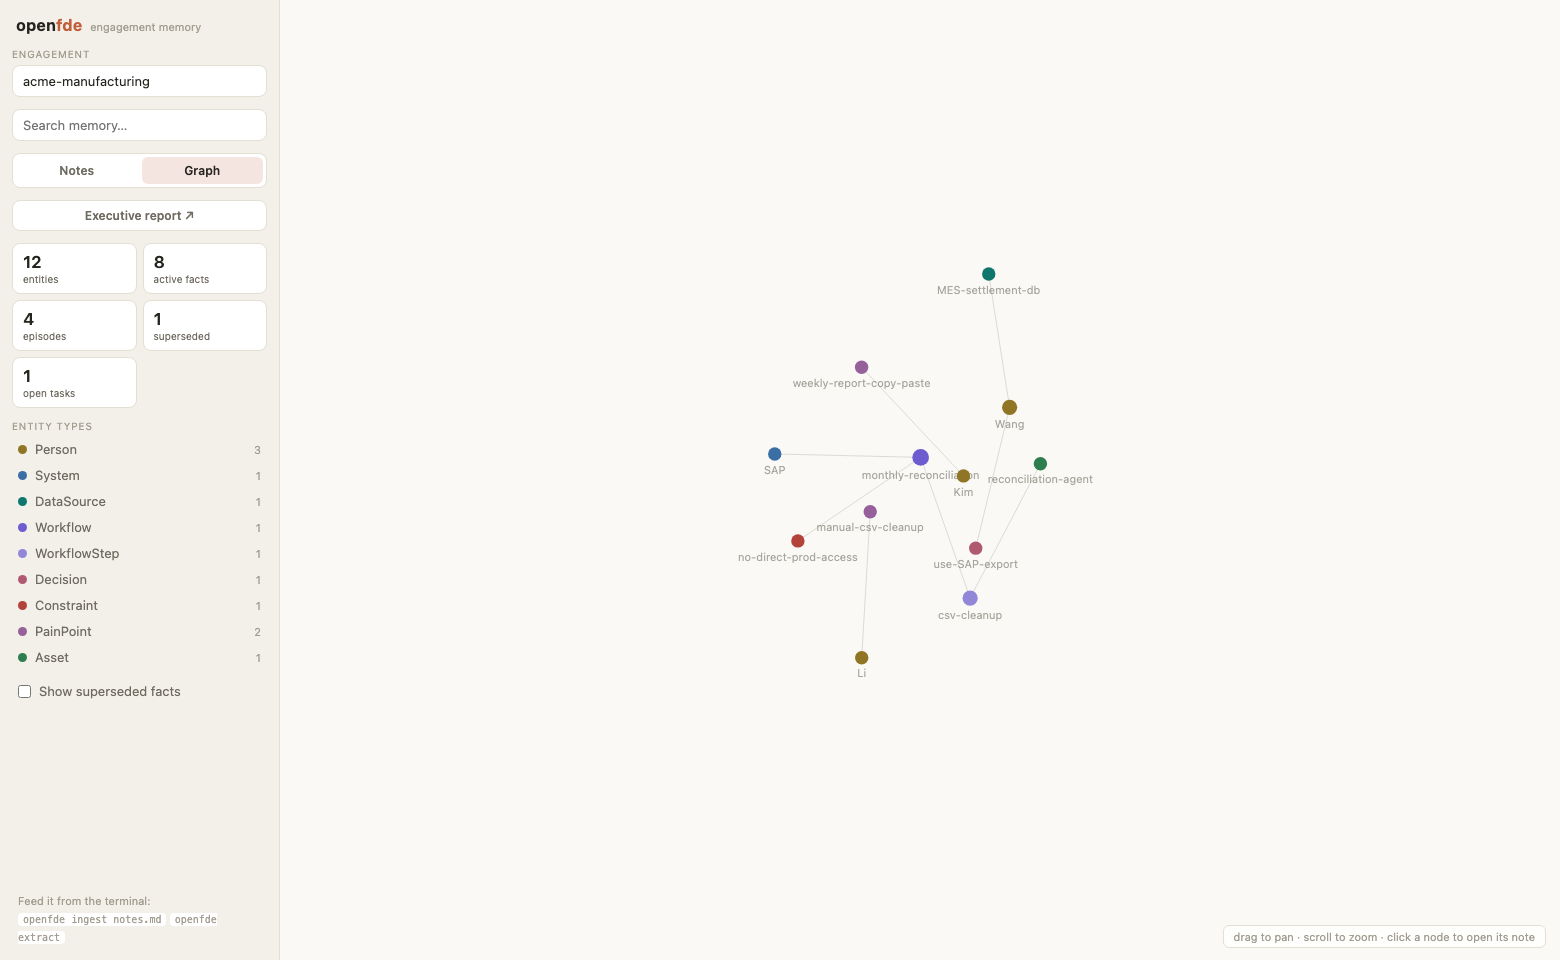
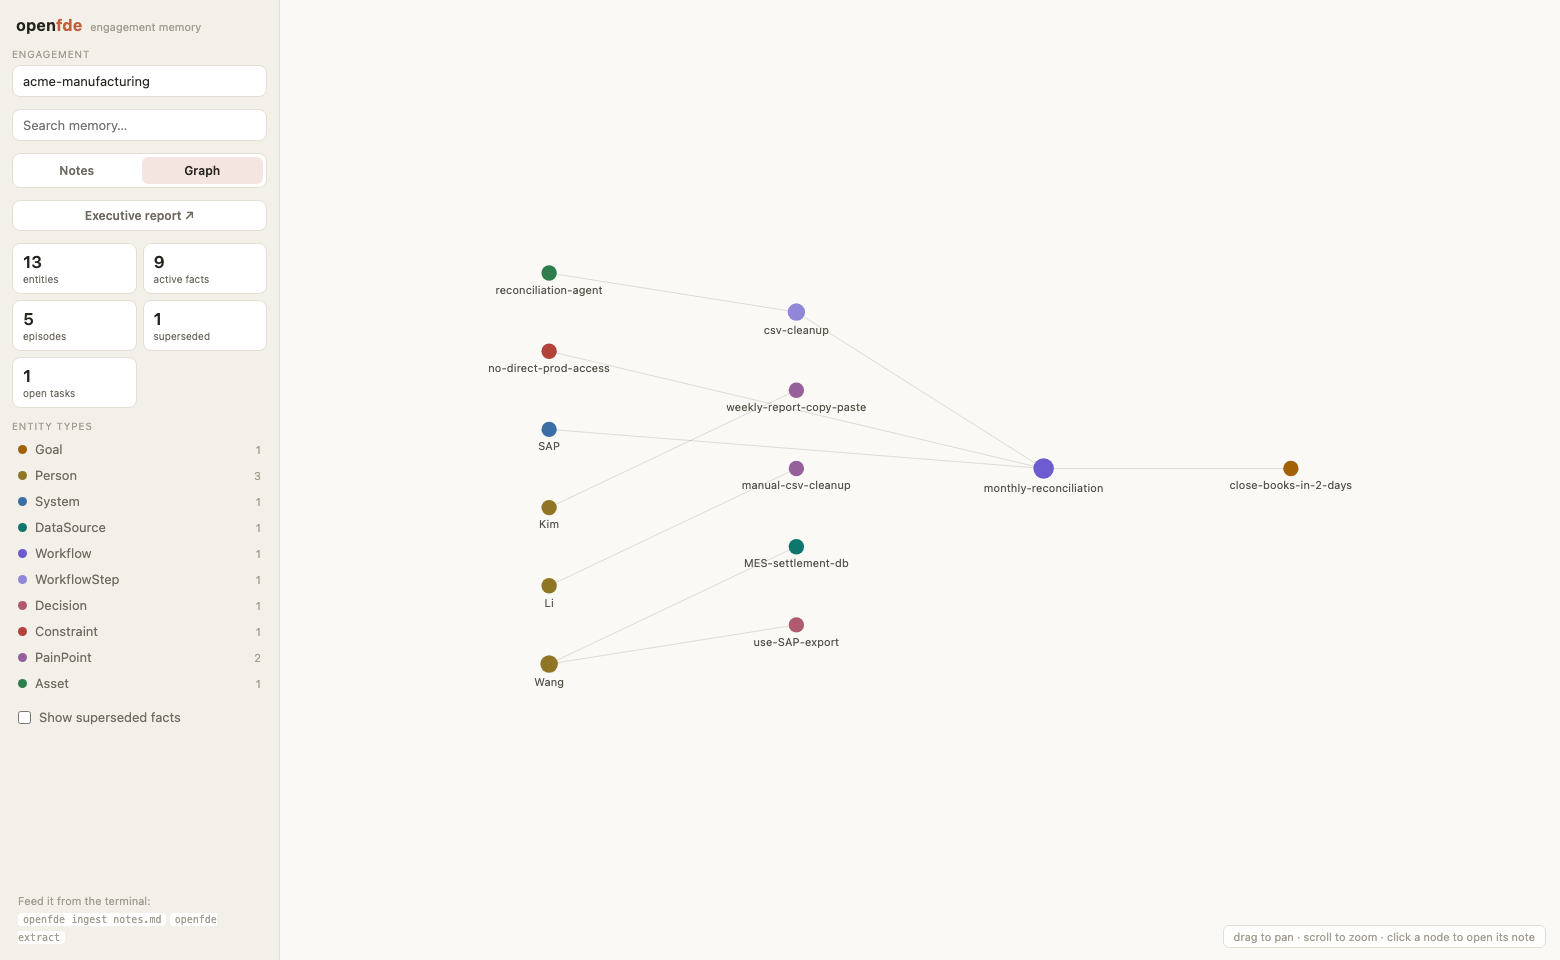
Replace force-directed graph with deterministic layered layout
Nodes rank along flow semantics (people/constraints/systems ->
pains/steps -> workflows -> goals; DEPENDS_ON and DECIDED_BY reversed
so infrastructure sits upstream), columns ordered by neighbor
barycenter to minimize crossings. No physics, no randomness: the same
ledger always draws the same picture, edges run left to right, labels
stay readable, and the view auto-fits per engagement without resetting
the user's pan/zoom on live refreshes.

diff --git a/packages/webui/src/index.html b/packages/webui/src/index.html
@@ -414,7 +414,7 @@ const state = {
   pages: [],
   page: null,
   tx: 0, ty: 0, scale: 1,
-  alpha: 0,
+  needsFit: false,
 };
 
 /* ---------------- api ---------------- */
@@ -486,7 +486,7 @@ function setView(view) {
   document.getElementById("stage").style.display = view === "graph" ? "block" : "none";
   document.getElementById("tree").style.display = view === "notes" ? "block" : "none";
   document.getElementById("graph-controls").style.display = view === "graph" ? "flex" : "none";
-  if (view === "graph") { resizeCanvas(); reheat(0.4); }
+  if (view === "graph") { resizeCanvas(); maybeFit(); }
 }
 document.getElementById("view-notes").onclick = () => setView("notes");
 document.getElementById("view-graph").onclick = () => setView("graph");
@@ -1253,7 +1253,9 @@ function renderLegend() {
     row.onclick = () => {
       state.hiddenTypes.has(type) ? state.hiddenTypes.delete(type) : state.hiddenTypes.add(type);
       renderLegend();
-      reheat(0.3);
+      layoutGraph();
+      state.needsFit = true;
+      maybeFit();
     };
     el.appendChild(row);
   }
@@ -1310,21 +1312,19 @@ function resizeCanvas() {
 window.addEventListener("resize", () => { resizeCanvas(); reheat(0.2); });
 
 function mergePositions(graph) {
-  const prev = state.byId;
-  const cx = canvas.width / (2 * dpr) || 500, cy = canvas.height / (2 * dpr) || 400;
-  state.nodes = graph.nodes.map((n) => {
-    const old = prev.get(n.id);
-    const angle = Math.random() * Math.PI * 2;
-    const r = 60 + Math.random() * 220;
-    return Object.assign(n, {
-      x: old ? old.x : cx + Math.cos(angle) * r,
-      y: old ? old.y : cy + Math.sin(angle) * r,
-      vx: 0, vy: 0,
+  state.nodes = graph.nodes.map((n) =>
+    Object.assign(n, {
+      x: 0, y: 0,
       radius: 4.5 + Math.min(9, Math.sqrt(n.degree || 0) * 2.2),
-    });
-  });
+    }));
   state.byId = new Map(state.nodes.map((n) => [n.id, n]));
   state.links = graph.links.filter((l) => state.byId.has(l.source) && state.byId.has(l.target));
+  layoutGraph();
+  if (state.fitKey !== state.engagement) {
+    state.fitKey = state.engagement;
+    state.needsFit = true;
+  }
+  maybeFit();
 }
 
 function visibleNodes() { return state.nodes.filter((n) => !state.hiddenTypes.has(n.type)); }
@@ -1334,48 +1334,106 @@ function visibleLinks() {
            !state.hiddenTypes.has(state.byId.get(l.target).type));
 }
 
-function reheat(alpha) { state.alpha = Math.max(state.alpha, alpha); }
+function reheat() { /* layout is deterministic now; kept for call sites */ }
 
-function stepPhysics() {
+/* ---------------- deterministic layered layout ----------------
+   No physics: rank nodes along the flow semantics (people ->
+   pains/decisions -> steps -> workflows -> goals; infrastructure
+   upstream of what depends on it), then order each column by the
+   barycenter of its neighbors so edges run left-to-right with few
+   crossings. Same idea as the mermaid renderer, applied to the
+   whole entity graph. */
+const LAYOUT_REVERSE = new Set(["DEPENDS_ON", "DECIDED_BY"]);
+
+function layoutGraph() {
   const nodes = visibleNodes();
-  const links = visibleLinks();
-  if (nodes.length === 0 || state.alpha < 0.003) return;
-  const a = state.alpha;
-  const cx = canvas.width / (2 * dpr), cy = canvas.height / (2 * dpr);
+  if (nodes.length === 0) return;
+  const ids = new Set(nodes.map((n) => n.id));
+  const edges = visibleLinks()
+    .filter((l) => ids.has(l.source) && ids.has(l.target) && l.source !== l.target)
+    .map((l) => LAYOUT_REVERSE.has(l.predicate)
+      ? { from: l.target, to: l.source }
+      : { from: l.source, to: l.target });
 
-  for (let i = 0; i < nodes.length; i++) {
-    const p = nodes[i];
-    for (let j = i + 1; j < nodes.length; j++) {
-      const q = nodes[j];
-      let dx = p.x - q.x, dy = p.y - q.y;
-      let d2 = dx * dx + dy * dy;
-      if (d2 < 1) { dx = Math.random() - 0.5; dy = Math.random() - 0.5; d2 = 1; }
-      if (d2 > 250000) continue;
-      const f = (4200 * a) / d2;
-      const d = Math.sqrt(d2);
-      const fx = (dx / d) * f, fy = (dy / d) * f;
-      p.vx += fx; p.vy += fy;
-      q.vx -= fx; q.vy -= fy;
+  const rank = new Map(nodes.map((n) => [n.id, 0]));
+  for (let pass = 0; pass <= nodes.length; pass++) {
+    let changed = false;
+    for (const e of edges) {
+      const r = rank.get(e.from) + 1;
+      if (r > rank.get(e.to) && r <= nodes.length) { rank.set(e.to, r); changed = true; }
     }
+    if (!changed) break;
   }
-  for (const l of links) {
-    const s = state.byId.get(l.source), t = state.byId.get(l.target);
-    const dx = t.x - s.x, dy = t.y - s.y;
-    const d = Math.max(1, Math.sqrt(dx * dx + dy * dy));
-    const f = ((d - 150) / d) * 0.05 * a * 6;
-    s.vx += dx * f; s.vy += dy * f;
-    t.vx -= dx * f; t.vy -= dy * f;
-  }
+  // nodes with no edges go to a quiet trailing column instead of cluttering column 0
+  const linked = new Set();
+  for (const e of edges) { linked.add(e.from); linked.add(e.to); }
+  const maxRank = Math.max(0, ...rank.values());
+  for (const n of nodes) if (!linked.has(n.id)) rank.set(n.id, maxRank + 1);
+
+  const cols = new Map();
   for (const n of nodes) {
-    n.vx += (cx - n.x) * 0.0035 * a * 6;
-    n.vy += (cy - n.y) * 0.0035 * a * 6;
+    const r = rank.get(n.id);
+    if (!cols.has(r)) cols.set(r, []);
+    cols.get(r).push(n);
   }
-  for (const n of nodes) {
-    if (n === dragNode) { n.vx = 0; n.vy = 0; continue; }
-    n.vx *= 0.82; n.vy *= 0.82;
-    n.x += n.vx; n.y += n.vy;
+  const order = [...cols.keys()].sort((a, b) => a - b);
+  for (const col of cols.values()) {
+    col.sort((a, b) => (a.type + a.name).localeCompare(b.type + b.name));
   }
-  state.alpha *= 0.985;
+
+  // barycenter sweeps: order each column by the mean row of its neighbors
+  const row = new Map();
+  for (const col of cols.values()) col.forEach((n, i) => row.set(n.id, i));
+  const sweep = (colOrder, incoming) => {
+    for (const r of colOrder) {
+      const col = cols.get(r);
+      const score = (n) => {
+        const rows = [];
+        for (const e of edges) {
+          if (incoming && e.to === n.id && row.has(e.from)) rows.push(row.get(e.from));
+          if (!incoming && e.from === n.id && row.has(e.to)) rows.push(row.get(e.to));
+        }
+        return rows.length ? rows.reduce((a, b) => a + b, 0) / rows.length : row.get(n.id);
+      };
+      col.sort((a, b) => score(a) - score(b));
+      col.forEach((n, i) => row.set(n.id, i));
+    }
+  };
+  sweep(order, true);
+  sweep([...order].reverse(), false);
+  sweep(order, true);
+
+  const COLGAP = 215, ROWGAP = 68;
+  const maxRows = Math.max(...order.map((r) => cols.get(r).length));
+  order.forEach((r, ci) => {
+    const col = cols.get(r);
+    const y0 = ((maxRows - col.length) * ROWGAP) / 2;
+    col.forEach((n, ri) => {
+      n.x = 90 + ci * COLGAP;
+      n.y = 70 + y0 + ri * ROWGAP;
+    });
+  });
+}
+
+function fitView() {
+  const nodes = visibleNodes();
+  if (nodes.length === 0) return;
+  const xs = nodes.map((n) => n.x), ys = nodes.map((n) => n.y);
+  const minX = Math.min(...xs) - 100, maxX = Math.max(...xs) + 100;
+  const minY = Math.min(...ys) - 60, maxY = Math.max(...ys) + 80;
+  const w = canvas.width / dpr, h = canvas.height / dpr;
+  if (w < 10 || h < 10) return;
+  const scale = Math.min(1.15, w / (maxX - minX), h / (maxY - minY));
+  state.scale = scale;
+  state.tx = (w - (minX + maxX) * scale) / 2;
+  state.ty = (h - (minY + maxY) * scale) / 2;
+}
+
+function maybeFit() {
+  if (!state.needsFit || state.view !== "graph") return;
+  resizeCanvas();
+  fitView();
+  state.needsFit = false;
 }
 
 /* ---------------- graph rendering ---------------- */
@@ -1401,7 +1459,8 @@ function draw() {
   ctx.scale(state.scale, state.scale);
 
   const focus = neighborSets();
-  const labelAlpha = Math.max(0, Math.min(1, (state.scale - 0.75) / 0.5));
+  // ordered layout is meant to be read: labels stay on except at far zoom-out
+  const labelAlpha = Math.max(0, Math.min(1, (state.scale - 0.28) / 0.12));
 
   for (const l of visibleLinks()) {
     const s = state.byId.get(l.source), t = state.byId.get(l.target);
@@ -1450,7 +1509,6 @@ function draw() {
 }
 
 function frame() {
-  stepPhysics();
   draw();
   requestAnimationFrame(frame);
 }